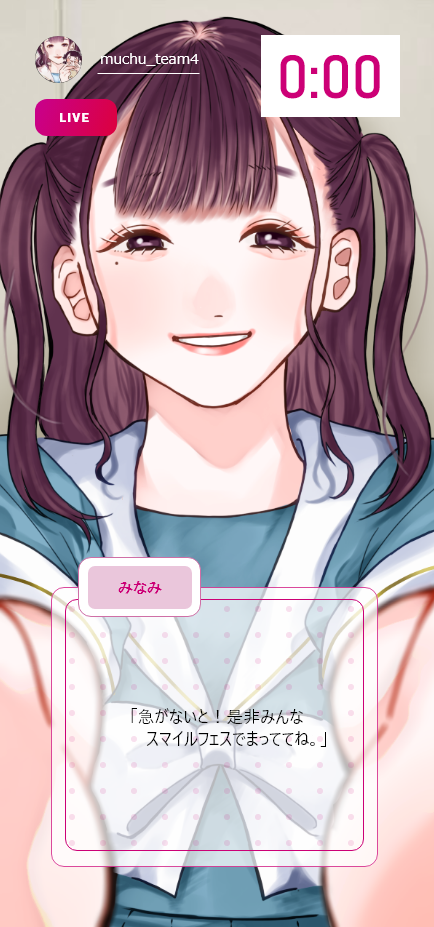
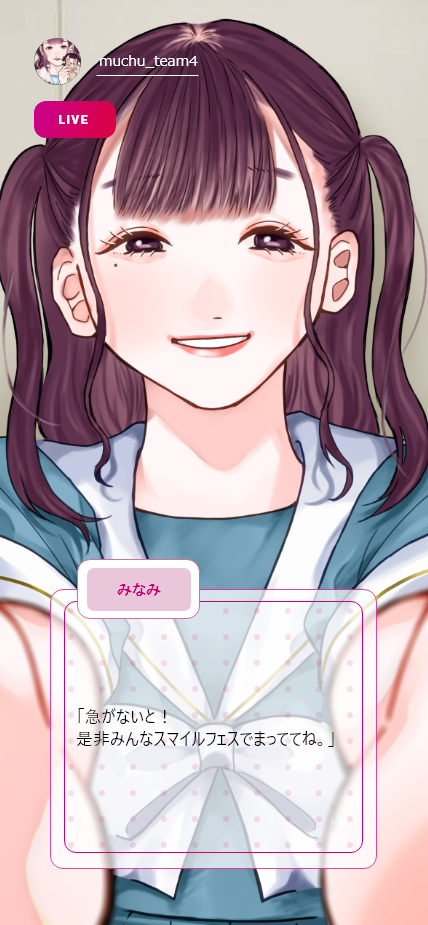
タイムアップ画像変更

diff --git a/timeup.css b/timeup.css
@@ -1,6 +1,6 @@
 
 body{
-    background-image: url('img/timeup1.png');
+    background-image: url('img/timeup.png');
     background-repeat: no-repeat;
     max-width: 100%;
     height: auto;
